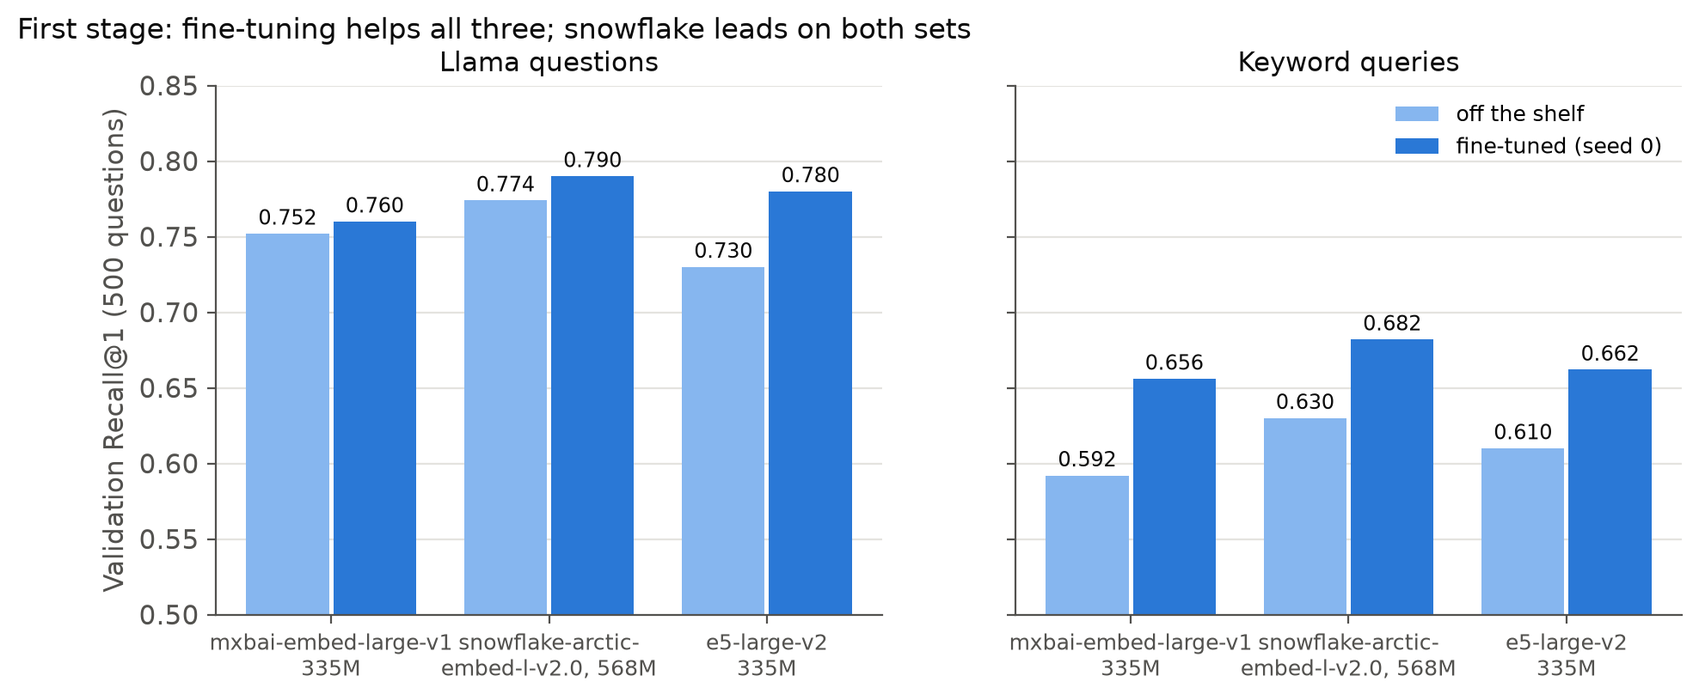
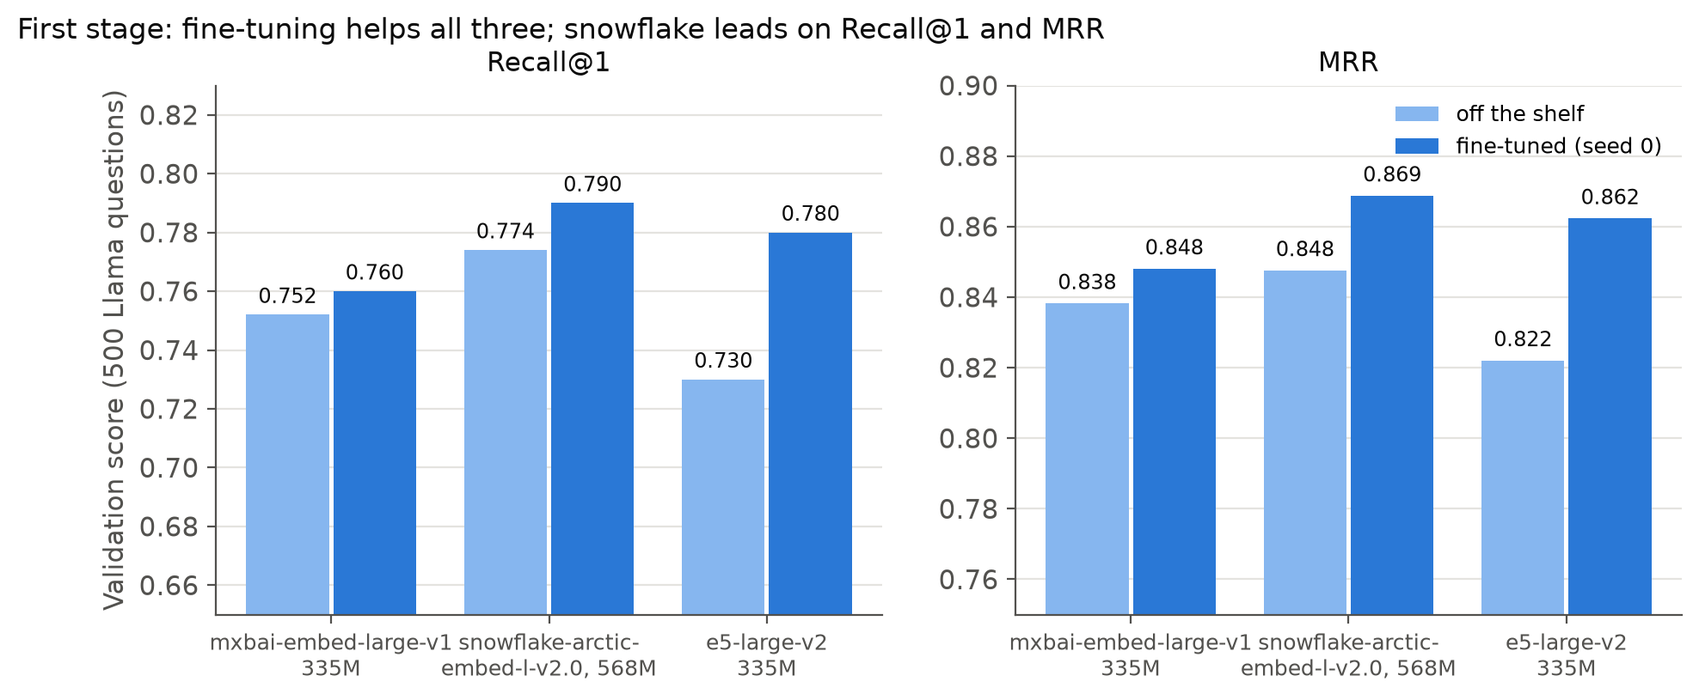
report.md: drop latency and keyword-query metrics; mention MiniLM only where tested

diff --git a/results/figures/make_figures.py b/results/figures/make_figures.py
@@ -88,81 +88,73 @@ def fig_sources():
     s = pd.read_csv(ROOT / "results/test/test_scores.csv")
     s = s.groupby(["source", "condition"])["recall@1"].mean().unstack(0)
     conds = [1, 2, 3, 4, 7]
-    srcs = [("llama", "Llama questions", BLUE), ("qwen", "Qwen questions", ORANGE), ("keyword", "Keyword queries (people)", AQUA)]
+    srcs = [("llama", "Llama questions (test writer)", BLUE), ("qwen", "Qwen questions (training writer)", ORANGE)]
     fig, ax = plt.subplots(figsize=(9, 4))
     x = np.arange(len(conds))
-    w = 0.26
+    w = 0.38
     for i, (src, label, color) in enumerate(srcs):
         vals = s.loc[conds, src].to_numpy()
-        bars = ax.bar(x + (i - 1) * w, vals, w - 0.02, color=color, label=label)
+        bars = ax.bar(x + (i - 0.5) * w, vals, w - 0.03, color=color, label=label)
         for b, v in zip(bars, vals):
-            ax.text(b.get_x() + b.get_width() / 2, v + 0.008, f"{v:.2f}", ha="center", fontsize=8.5, color=INK)
+            ax.text(b.get_x() + b.get_width() / 2, v + 0.008, f"{v:.3f}", ha="center", fontsize=8.5, color=INK)
     ax.set_xticks(x, ["BM25", "MiniLM\noff the shelf", "snowflake\noff the shelf", "snowflake\nfine-tuned", "final\n(+ reranker)"])
-    ax.set_ylim(0.3, 0.97)
+    ax.set_ylim(0.4, 0.95)
     ax.set_ylabel("Test Recall@1 (mean of seeds)")
     ax.grid(axis="x", visible=False)
-    ax.legend(frameon=False, loc="upper left", ncol=3)
-    ax.set_title("Gains hold on all three question sets, including real keyword queries", loc="left", color=INK, fontsize=12)
-    save(fig, "fig2_three_question_sets.png")
+    ax.legend(frameon=False, loc="upper left", ncol=2)
+    ax.set_title("Same ranking of conditions whichever LLM wrote the questions", loc="left", color=INK, fontsize=12)
+    save(fig, "fig2_two_question_writers.png")
 
 
 def fig_first_stage_selection():
     models = [("mxbai-embed-large-v1", "first-stage-mxbai", "mxbai-embed-large-v1\n335M"),
               ("snowflake-arctic-embed-l-v2.0", "first-stage-snowflake", "snowflake-arctic-\nembed-l-v2.0, 568M"),
               ("e5-large-v2", "first-stage-e5", "e5-large-v2\n335M")]
-    fig, axes = plt.subplots(1, 2, figsize=(11, 4), sharey=True)
-    for ax, (suffix, title) in zip(axes, [("", "Llama questions"), ("_keyword", "Keyword queries")]):
+    fig, axes = plt.subplots(1, 2, figsize=(11, 4))
+    for ax, (metric, title, lo, hi) in zip(axes, [("recall@1", "Recall@1", 0.65, 0.83), ("mrr", "MRR", 0.75, 0.9)]):
         off, ft = [], []
         for base, exp, _ in models:
             v = json.load(open(EXP / exp / "validation.json"))["validation"]
-            off.append(v[base + suffix]["recall@1"])
-            ft.append(v[f"exp_{exp}{suffix}"]["recall@1"])
+            off.append(v[base][metric])
+            ft.append(v[f"exp_{exp}"][metric])
         x = np.arange(len(models))
         for dx, vals, color, label in [(-0.2, off, "#86b6ef", "off the shelf"), (0.2, ft, BLUE, "fine-tuned (seed 0)")]:
             bars = ax.bar(x + dx, vals, 0.38, color=color, label=label)
             for b, v in zip(bars, vals):
-                ax.text(b.get_x() + b.get_width() / 2, v + 0.006, f"{v:.3f}", ha="center", fontsize=8.5, color=INK)
+                ax.text(b.get_x() + b.get_width() / 2, v + 0.004, f"{v:.3f}", ha="center", fontsize=8.5, color=INK)
         ax.set_xticks(x, [m[2] for m in models], fontsize=9)
         ax.set_title(title, color=INK, fontsize=11)
         ax.grid(axis="x", visible=False)
-        ax.set_ylim(0.5, 0.85)
-    axes[0].set_ylabel("Validation Recall@1 (500 questions)")
+        ax.set_ylim(lo, hi)
+    axes[0].set_ylabel("Validation score (500 Llama questions)")
     axes[1].legend(frameon=False, loc="upper right", fontsize=9)
-    fig.suptitle("First stage: fine-tuning helps all three; snowflake leads on both sets", x=0.02, ha="left", color=INK, fontsize=12)
+    fig.suptitle("First stage: fine-tuning helps all three; snowflake leads on Recall@1 and MRR", x=0.02, ha="left", color=INK, fontsize=12)
     save(fig, "fig3_first_stage_selection.png")
 
 
 def fig_screening():
     # From results/experiments/screening/screening.md (validation, off the shelf, Llama questions).
-    first = [("BM25", 0.522, 0.832), ("all-MiniLM-L6-v2 (22M)", 0.672, 0.952), ("Qwen3-Embedding-0.6B", 0.712, 0.946),
-             ("e5-large-v2 (335M)", 0.730, 0.966), ("bge-base-en-v1.5 (110M)", 0.734, 0.970),
-             ("bge-large-en-v1.5 (335M)", 0.742, 0.968), ("mxbai-embed-large-v1 (335M)", 0.752, 0.978),
-             ("snowflake-arctic-embed-l-v2.0 (568M)", 0.774, 0.972)]
-    rer = [("ms-marco-MiniLM-L6-v2", 0.722, 6), ("bge-reranker-base", 0.684, 22), ("gte-reranker-modernbert-base", 0.754, 30),
-           ("bge-reranker-v2-m3", 0.770, 66), ("Qwen3-Reranker-0.6B", 0.748, 162)]
-    fig, axes = plt.subplots(1, 2, figsize=(12, 4.2), gridspec_kw={"width_ratios": [1.25, 1]})
-    ax = axes[0]
-    y = np.arange(len(first))
-    chosen = {"snowflake-arctic-embed-l-v2.0 (568M)", "mxbai-embed-large-v1 (335M)", "e5-large-v2 (335M)"}
-    ax.barh(y, [f[1] for f in first], color=[BLUE if f[0] in chosen else GRAY for f in first], height=0.62)
-    for yi, f in zip(y, first):
-        ax.text(f[1] + 0.006, yi, f"{f[1]:.3f}", va="center", fontsize=9, color=INK)
-    ax.set_yticks(y, [f[0] for f in first], fontsize=9)
-    ax.set_xlim(0.45, 0.82)
-    ax.set_xlabel("Validation Recall@1, off the shelf")
-    ax.grid(axis="y", visible=False)
-    ax.set_title("First-stage screen (blue = fine-tuned next)", loc="left", color=INK, fontsize=11)
-    ax = axes[1]
-    for name, r1, ms in rer:
-        c = BLUE if name in ("gte-reranker-modernbert-base", "bge-reranker-v2-m3") else GRAY
-        ax.scatter(ms, r1, s=70, color=c, edgecolor="white", linewidth=2, zorder=3)
-        ax.annotate(name, (ms, r1), textcoords="offset points", xytext=(6, 5), fontsize=8.5, color=INK)
-    ax.set_xscale("log")
-    ax.set_xlabel("GPU ms per question at k = 10 (log scale)")
-    ax.set_ylabel("Validation Recall@1, reranker alone")
-    ax.set_xlim(4, 600)
-    ax.set_ylim(0.67, 0.79)
-    ax.set_title("Reranker screen on e5's top 10", loc="left", color=INK, fontsize=11)
+    first = [("BM25", 0.522), ("all-MiniLM-L6-v2 (22M)", 0.672), ("Qwen3-Embedding-0.6B", 0.712),
+             ("e5-large-v2 (335M)", 0.730), ("bge-base-en-v1.5 (110M)", 0.734),
+             ("bge-large-en-v1.5 (335M)", 0.742), ("mxbai-embed-large-v1 (335M)", 0.752),
+             ("snowflake-arctic-embed-l-v2.0 (568M)", 0.774)]
+    rer = [("bge-reranker-base", 0.684), ("mxbai-rerank-large-v1", 0.710), ("ms-marco-MiniLM-L6-v2", 0.722),
+           ("Qwen3-Reranker-0.6B", 0.748), ("gte-reranker-modernbert-base", 0.754), ("bge-reranker-v2-m3", 0.770)]
+    fig, axes = plt.subplots(1, 2, figsize=(14, 4.2), gridspec_kw={"width_ratios": [1.2, 1], "wspace": 0.75})
+    for ax, rows, chosen, title in [
+        (axes[0], first, {"snowflake-arctic-embed-l-v2.0 (568M)", "mxbai-embed-large-v1 (335M)", "e5-large-v2 (335M)"},
+         "First-stage screen (blue = fine-tuned next)"),
+        (axes[1], rer, {"gte-reranker-modernbert-base", "bge-reranker-v2-m3"}, "Reranker screen on e5's top 10")]:
+        y = np.arange(len(rows))
+        ax.barh(y, [r[1] for r in rows], color=[BLUE if r[0] in chosen else GRAY for r in rows], height=0.62)
+        for yi, r in zip(y, rows):
+            ax.text(r[1] + 0.004, yi, f"{r[1]:.3f}", va="center", fontsize=9, color=INK)
+        ax.set_yticks(y, [r[0] for r in rows], fontsize=9)
+        ax.set_xlabel("Validation Recall@1, off the shelf")
+        ax.grid(axis="y", visible=False)
+        ax.set_title(title, loc="left", color=INK, fontsize=11)
+    axes[0].set_xlim(0.45, 0.82)
+    axes[1].set_xlim(0.6, 0.8)
     save(fig, "fig4_screening.png")
 
 
@@ -185,32 +177,21 @@ def fig_reranker_selection():
     ax.set_ylabel("Validation Recall@1, top 10\n(reranker score alone)")
     ax.grid(axis="x", visible=False)
     ax.legend(frameon=False, loc="upper right", fontsize=9)
-    ax.set_title("Fine-tuned gte beats the larger v2-m3 at half the latency (31 vs 73 ms)", loc="left", color=INK, fontsize=12)
+    ax.set_title("Fine-tuned gte beats the 4x larger v2-m3", loc="left", color=INK, fontsize=12)
     save(fig, "fig5_reranker_selection.png")
 
 
 def fig_rerank_k():
     k = pd.read_csv(ROOT / "results/test/rerank_k.csv")
     k = k[(k.condition == 7) & (k.kind == "fused")].groupby("k")["recall@1"].mean()
-    sp = pd.read_csv(ROOT / "results/test/speed.csv")
-    sp = sp[(sp.condition == 7) & sp.k.notna()]
-    fig, axes = plt.subplots(1, 2, figsize=(10, 3.6))
-    ax = axes[0]
+    fig, ax = plt.subplots(figsize=(6.5, 3.6))
     ax.plot(k.index, k.values, color=BLUE, lw=2, marker="o", ms=6)
     ax.axhline(0.806, color=GRAY, lw=1.5, ls="--")
     ax.text(50, 0.8065, "first stage alone", ha="right", va="bottom", fontsize=9, color=INK2)
     ax.set_ylim(0.795, 0.84)
     ax.set_xlabel("k (first-stage candidates reranked)")
     ax.set_ylabel("Test Recall@1, final model")
-    ax.set_title("Accuracy is flat past k = 10", loc="left", color=INK, fontsize=11)
-    ax = axes[1]
-    for dev, color, label in [("mps", BLUE, "Apple GPU (MPS)"), ("cpu", ORANGE, "CPU, 6 threads")]:
-        d = sp[sp.device == dev].sort_values("k")
-        ax.plot(d.k, d.question_ms, color=color, lw=2, marker="o", ms=6, label=label)
-    ax.set_xlabel("k")
-    ax.set_ylabel("ms per question")
-    ax.legend(frameon=False, loc="upper left", bbox_to_anchor=(0, 0.92))
-    ax.set_title("…while latency grows linearly", loc="left", color=INK, fontsize=11)
+    ax.set_title("Reranking more than the top 10 adds almost nothing", loc="left", color=INK, fontsize=11)
     save(fig, "fig6_rerank_k.png")
 
 

diff --git a/report.md b/report.md
@@ -16,7 +16,7 @@ We compared keyword search, eight off-the-shelf embedding models, three fine-tun
 - **First stage:** a fine-tuned `snowflake-arctic-embed-l-v2.0` bi-encoder (568M parameters).
 - **Reranker:** a fine-tuned `gte-reranker-modernbert-base` cross-encoder (149M) that reorders the bi-encoder's top 10. Its score is combined with the bi-encoder's.
 
-The system reaches Recall@1 0.832 and Recall@5 0.963. The gains hold on questions in the training writer's style and on the original keyword queries typed by real people. The full system takes about 46 ms per question on a laptop GPU. The original hypothesis was for a small (22M) model to gain 10 points of Recall@5. That proved impossible to test as stated: off-the-shelf models already scored 90–95% Recall@5. So we switched to Recall@1 and larger models before running any test, and we report the original hypothesis's outcome below.
+The system reaches Recall@1 0.832, Recall@5 0.963 and MRR 0.890, and the ranking of conditions is the same whichever LLM wrote the questions. We first fine-tuned a small model (bge-small, 33M), aiming for a 10-point Recall@5 gain. Off-the-shelf models already scored 90–95% Recall@5, so a gain that large was impossible. We switched to Recall@1 and larger models before running any test, and report the original hypothesis's outcome below.
 
 ---
 
@@ -24,12 +24,12 @@ The system reaches Recall@1 0.832 and Recall@5 0.963. The gains hold on question
 
 **Question.** When people ask about their browsing history in their own words, which retriever, and which way of fine-tuning it, returns the page they mean?
 
-**Original hypothesis (proposal, October 2026).** Fine-tuning a small embedding model (all-MiniLM-L6-v2, 22M parameters) on LLM-rewritten click data would raise Recall@5 by at least 10 points over BM25 and over the same model off the shelf, and the gain would replicate on a second model (bge-small, 33M).
+**Original hypothesis.** Fine-tuning a small embedding model (bge-small, 33M parameters) on LLM-rewritten click data would raise Recall@5 by at least 10 points over BM25 and over the same model off the shelf, and the gain would replicate on a second model.
 
 **Revised hypothesis, fixed on validation before any test run.**
 - Off-the-shelf bge-small already reached 0.896 validation Recall@5, so a 10-point Recall@5 gain was impossible. Recall@1 became the primary metric, with MRR breaking ties.
 - The small models' recipe experiments (Section 5.2) gained at most 5.4 points of Recall@1 and plateaued near 0.71. Their misses were capacity errors, which motivated the move to larger models and a reranker.
-- The revised expectation: a fine-tuned large bi-encoder plus a fine-tuned cross-encoder reranker beats BM25, all-MiniLM-L6-v2 and the same bi-encoder off the shelf on Recall@1, without losing accuracy on real keyword queries.
+- The revised expectation: a fine-tuned large bi-encoder plus a fine-tuned cross-encoder reranker beats BM25, all-MiniLM-L6-v2 and the same bi-encoder off the shelf on Recall@1 and MRR.
 
 **Outcome against each hypothesis.**
 
@@ -39,19 +39,18 @@ The system reaches Recall@1 0.832 and Recall@5 0.963. The gains hold on question
 | Recall@5 rises ≥10 points over the same model off the shelf | +1.4 (0.946 → 0.960); the baseline leaves only 5.4 points of headroom | Not met (ceiling) |
 | Recall@1 improves over the same model off the shelf | +2.0 [95% CI +0.7, +3.4] (first stage), +4.6 [+3.3, +6.0] (final) | Met |
 | Gain replicates on a second model | Fine-tuning raised validation Recall@1 on all four models tried. On test, fine-tuned mxbai (0.787) beats BM25 and MiniLM, but its off-the-shelf version was not scored on test | Partly met |
-| No loss on real keyword queries | Final 0.730 vs first stage 0.706 vs off the shelf 0.682 | Met |
-| A small (22M) model is enough | Fine-tuned small models plateau near 0.71 validation Recall@1 | Not supported |
+| A small (33M) model is enough | Fine-tuned bge-small plateaued near 0.71 validation Recall@1 | Not supported |
 
 ---
 
 ## 2. Significance and related work
 
-**The problem.** A retrieval-augmented assistant over browsing history (Lewis et al., 2020) can only answer from what its retriever finds. Chrome's history search matches literal keywords against titles and URLs. That fails when a question and the page's title share few words. An LLM reading the whole history would see about 100k tokens per question, which is slow and expensive on a laptop.
+**The problem.** A retrieval-augmented assistant over browsing history (Lewis et al., 2020) can only answer from what its retriever finds. Chrome's history search matches literal keywords against titles and URLs. That fails when a question and the page's title share few words. An LLM reading the whole history would see about 100k tokens per question.
 
 **Why it matters.**
 - Personal retrieval has no labelled data, and collecting it raises privacy problems. Search clicks rewritten by an LLM are a privacy-free substitute.
-- We test whether models trained this way transfer to questions written by another LLM, and to queries real people typed.
-- A bi-encoder embeds each page once and searches thousands of entries in milliseconds on a laptop.
+- We test whether models trained this way transfer to questions written by another LLM.
+- A bi-encoder embeds each page once, so it scales to long histories.
 
 **Related work.**
 - **Click data:** ORCAS (Craswell et al., 2020), with titles from MS MARCO (Nguyen et al., 2016).
@@ -69,12 +68,12 @@ The system reaches Recall@1 0.832 and Recall@5 0.963. The gains hold on question
 | | |
 |---|---|
 | **Final models** | First stage: `Snowflake/snowflake-arctic-embed-l-v2.0` (568M), fine-tuned. Reranker: `Alibaba-NLP/gte-reranker-modernbert-base` (149M), fine-tuned, reordering the top 10 |
-| **Data** | 300,000 ORCAS query–click pairs with MS MARCO titles. Splits: 297,500 training, 500 validation, 2,000 test (by query). Training used 50,000 question rows plus their keyword queries |
+| **Data** | 300,000 ORCAS query–click pairs with MS MARCO titles. Splits: 297,500 training, 500 validation, 2,000 test (by query). Training used 50,000 question rows, plus the original search queries as extra rows |
 | **Question writers** | Training: Qwen3-30B-A3B (4-bit, MLX, greedy). Validation and test: Llama-3.1-8B-Instruct (4-bit, MLX, greedy), with the same neutral prompt |
 | **Test design** | Each question ranks its own 200 entries (`title \| url`): the answer, 100 BM25 look-alikes of the answer's entry, and 99 random pages |
 | **Conditions** | 7 conditions (Table 1), plus fine-tuned mxbai as a replication (A). Selection screened 8 first-stage models and 6 rerankers |
-| **Metrics** | Recall@1 (primary), Recall@5, @10, @20, @50 and @100, MRR, and ms per question. 3 seeds for each fine-tuned condition. Per-condition 95% bootstrap CIs and paired bootstrap tests (10,000 resamples) |
-| **Check sets** | The same 2,000 test pages asked two more ways: Qwen-written questions (the training style) and the original ORCAS keyword queries (typed by people) |
+| **Metrics** | Recall@1 (primary), Recall@5, @10, @20, @50 and @100, and MRR. 3 seeds for each fine-tuned condition. Per-condition 95% bootstrap CIs and paired bootstrap tests (10,000 resamples) |
+| **Check set** | The same 2,000 test pages asked again by Qwen (the training writer), to test whether models learned the writer's style |
 | **Compute** | A 64 GB Apple Silicon Mac GPU (MPS), not Colab (Table 1 lists approximate GPU-hours). Rewriting 300k questions took about 10 GPU-hours |
 
 ---
@@ -106,7 +105,7 @@ flowchart LR
 - Qwen3-30B-A3B rewrote all 300k keyword queries, with greedy decoding and few-shot examples rotated by a seeded hash.
 - The first prompt banned copying three or more title words and asked for loose descriptions. That handicapped BM25 by design, so the final round removed both rules and used one neutral prompt for both writers.
 - The lowest 10% of rewrites by average token log-probability were dropped (`drop10`, chosen on validation).
-- The original keyword queries were mixed back in as extra training rows.
+- The original search queries were mixed back in as extra training rows.
 
 **First stage.**
 - Loss: `MultipleNegativesRankingLoss` (in-batch negatives) plus one hard negative per question.
@@ -120,8 +119,8 @@ flowchart LR
 
 **Fusion.**
 - Within the top 10, the final score is `w · z(bi-encoder) + z(reranker)`, where z standardises each model's scores within the 10.
-- `w` comes from a 14-value grid, chosen on 1,000 held-out training rows (with their keyword queries), never on validation. The selected values were 1.25, 0.6 and 1.0 for the three seeds.
-- Fusion is what kept the reranker from losing on keyword queries (Section 5.4).
+- `w` comes from a 14-value grid, chosen on 1,000 held-out training rows, never on validation. The selected values were 1.25, 0.6 and 1.0 for the three seeds.
+- Fusion raised Recall@1 over the reranker alone (Section 5.4).
 
 ---
 
@@ -148,9 +147,9 @@ flowchart LR
 
 Seed spread (standard deviation of Recall@1 over 3 seeds) is 0.003 for condition 4 and 0.004 for condition 7, far smaller than the gaps between conditions. Condition 7 beats condition 3 by +4.6 points [+3.3, +6.0], and condition 4 beats condition 3 by +2.0 [+0.7, +3.4].
 
-![Figure 2](results/figures/fig2_three_question_sets.png)
+![Figure 2](results/figures/fig2_two_question_writers.png)
 
-**Figure 2.** Test Recall@1 on the same 2,000 pages, asked three ways. The ranking of conditions is identical on all three, and every step up also raises accuracy on keyword queries typed by people. Fine-tuned snowflake scores the same on Llama (0.806) and Qwen (0.801) questions, so it learned the task, not Qwen's style.
+**Figure 2.** Test Recall@1 on the same 2,000 pages, asked by the test writer (Llama) and by the training writer (Qwen). The ranking of conditions is identical for both. Fine-tuned snowflake scores the same on Llama (0.806) and Qwen (0.801) questions, so it learned the task, not Qwen's style.
 
 ![Figure 7](results/figures/fig7_first_stage_recall_at_k.png)
 
@@ -189,41 +188,38 @@ For the final round we regenerated all questions with the neutral prompt and scr
 
 **Figure 5.** Off-the-shelf screening on 500 validation questions.
 - **First stage (left):** the three most accurate models were fine-tuned (blue). Qwen3-Embedding-0.6B was dropped: it scored lower and, being LLM-based, needs more memory.
-- **Rerankers (right):** Recall@1 against GPU latency on e5's top 10. gte-reranker-modernbert-base and bge-reranker-v2-m3 were fine-tuned. The others were dropped:
-  - ms-marco-MiniLM and bge-reranker-base scored lower;
-  - Qwen3-Reranker scored lower and is 5× slower;
-  - mxbai-rerank-large-v1, screened later on the CPU, scored 0.710.
+- **Rerankers (right):** Recall@1 on e5's top 10. The two most accurate, bge-reranker-v2-m3 and gte-reranker-modernbert-base, were fine-tuned; the other four scored lower and were dropped.
 
 ![Figure 3](results/figures/fig3_first_stage_selection.png)
 
 **Figure 6.** First-stage selection (validation, seed 0).
-- Fine-tuning helped all three candidates, by +0.8 (mxbai), +1.6 (snowflake) and +5.0 (e5) points on Llama questions, and by +5 to +6 points on keyword queries.
+- Fine-tuning helped all three candidates, by +0.8 (mxbai), +1.6 (snowflake) and +5.0 (e5) points of Recall@1, and by +1.0 to +4.0 points of MRR.
 - Recall@10 and Recall@50 were saturated: all three were within 1 point of each other.
-- **Snowflake won** on Recall@1, MRR and keyword queries. A first pick of mxbai, which our rule made on a 1% speed difference, was corrected to snowflake. The test set confirms the correction: fine-tuned mxbai scores 0.787 against snowflake's 0.806 (Table 1, A).
+- **Snowflake won** on Recall@1 and MRR. An earlier pick of mxbai, made by a tie-break rule while Recall@10 was saturated, was corrected to snowflake. The test set confirms the correction: fine-tuned mxbai scores 0.787 against snowflake's 0.806 (Table 1, A).
 - Training snowflake on all 233k usable rows instead of 50k gained only +0.4 points (0.794 vs 0.790), below our 0.5-point bar, so the 3 seeds used 50k rows.
 
 ![Figure 5](results/figures/fig5_reranker_selection.png)
 
 **Figure 7.** Reranker selection on fine-tuned snowflake's top 10 (validation, reranker score alone).
 - Off the shelf, both rerankers are worse than the first stage alone (0.752 and 0.768 against 0.790).
-- After fine-tuning, gte (0.804) beats the first stage and the 4× larger v2-m3 (0.780), at 31 ms against 73 ms per question.
+- After fine-tuning, gte (0.804) beats the first stage and the 4× larger v2-m3 (0.780).
 - gte's three seeds scored 0.804, 0.802 and 0.810.
 - The rerankers were trained on mxbai's mistakes, before the first-stage correction, and were not retrained on snowflake's.
 
 ### 5.4 Fusion and the choice of k
 
-Alone, fine-tuned gte lost on keyword queries (validation 0.658 against the first stage's 0.682), which broke our keyword rule. Adding the bi-encoder's standardised score, with the weight fitted on held-out training rows, fixed it: fused keyword Recall@1 was 0.694–0.716 across the 3 seeds. Fusion also raised Llama Recall@1 to 0.814–0.818.
+Adding the bi-encoder's standardised score to the reranker's, with the weight fitted on held-out training rows, raised validation Recall@1 from 0.802–0.810 (reranker alone) to 0.814–0.818 across the 3 seeds.
 
 ![Figure 6](results/figures/fig6_rerank_k.png)
 
-**Figure 8.** Final model on test as k (the number of first-stage candidates reranked) varies. Left: Recall@1 is flat past k = 10; k = 50 adds at most 0.2 points. Right: time per question grows linearly, so k = 50 costs 4× more. At k = 10 the system takes 46 ms on the GPU and 150 ms on the CPU.
+**Figure 8.** Final model on test as k (the number of first-stage candidates reranked) varies. Recall@1 is flat past k = 10: reranking 50 candidates adds at most 0.2 points, so the final system reranks the top 10.
 
 ---
 
 ## 6. Key observations
 
-1. **Fine-tuning on LLM-rewritten clicks transfers to another writer and to real queries.** Every fine-tuned model improved on Llama-written questions it never saw the style of, and on the original keyword queries people typed (final 0.730 against 0.682 off the shelf). The fine-tuned first stage scores the same on Llama and Qwen questions (0.806 against 0.801), so it learned the task rather than the training writer's style.
-2. **Model capacity mattered more than fine-tuning.** Moving from MiniLM (22M) to snowflake (568M) off the shelf gained +9.2 points of Recall@1. Fine-tuning snowflake added +2.0, and the fine-tuned reranker +2.6 more. Fine-tuning gains shrink as the base model gets stronger: +5.4 on bge-small, +5.0 on e5, +1.6 on snowflake, +0.8 on mxbai (validation).
+1. **Fine-tuning on LLM-rewritten clicks transfers to another writer.** Every fine-tuned model improved on Llama-written questions, a style it never trained on. The fine-tuned first stage scores the same on Llama and Qwen questions (0.806 against 0.801), so it learned the task rather than the training writer's style.
+2. **Model capacity mattered more than fine-tuning.** Moving from all-MiniLM-L6-v2 (22M) to snowflake (568M), both off the shelf, gained +9.2 points of Recall@1. Fine-tuning snowflake added +2.0, and the fine-tuned reranker +2.6 more. Fine-tuning gains shrink as the base model gets stronger: +5.4 on bge-small, +5.0 on e5, +1.6 on snowflake, +0.8 on mxbai (validation).
 3. **Surprises:**
    - Combining BM25 with the dense ranking (reciprocal rank fusion) *hurt*, by −12.4 points. BM25 is so much weaker that giving its ranks equal weight drags the dense ranking down.
    - Off-the-shelf rerankers were *worse* than the fine-tuned first stage on their own. Only fine-tuning, plus fusion with the first-stage score, made the reranker pay off.
@@ -288,16 +284,16 @@ We sampled 50 of the 98 validation misses of the fine-tuned reranker (seed 0, sn
 
 | Proposal | What we did | Why |
 |---|---|---|
-| all-MiniLM-L6-v2 (22M), replicated on bge-small (33M) | Small models tried first; final first stage snowflake (568M), replicated with mxbai (335M); reranker added | Small models plateaued near 0.71 Recall@1 and their misses needed more capacity |
+| A small embedding model, replicated on a second one | bge-small (33M) tried first; final first stage snowflake (568M), replicated with mxbai (335M); reranker added | bge-small plateaued near 0.71 Recall@1 and its misses needed more capacity |
 | Primary metric Recall@5, target +10 points | Recall@1 primary, with MRR breaking ties; decided on validation before testing | Off-the-shelf Recall@5 was already 0.90–0.95 |
 | Qwen2.5-7B rewrites 50k queries, keep the top 25k, drop copies of 4+ title words | Qwen3-30B rewrites all 300k with a neutral prompt; drop the lowest 10% by log-probability; 50k used for training | The copy rule handicapped BM25; more rows were cheap |
 | Hard negative: a BM25 match of the question | A BM25 look-alike of the answer page | +1.8 points on validation (Figure 4) |
 | Five conditions | Seven conditions plus a replication, with a BM25 hybrid and rerankers | The error analysis called for a reranker |
-| 3 seeds for MiniLM, 1 for bge-small; paired bootstrap | 3 seeds for each final model; paired bootstrap; per-condition CIs | – |
+| Seeds and paired bootstrap | 3 seeds for each final model; paired bootstrap; per-condition CIs | – |
 | 100 hand-labelled errors | 50 AI-labelled errors on the final reranker, plus 25 earlier hand-checked ones | Time |
 | nDCG@10 | Not reported; MRR and Recall@k cover ranking quality | – |
 | About 5.5 GPU-hours on a Colab T4 | About 20–25 GPU-hours on a local Mac GPU | Larger models and the full 300k rewrite |
-| Unchanged | ORCAS + MS MARCO, a separate Llama test writer, 2,000 test and 500 dev questions, 200-entry histories with near-duplicates, BM25 baseline, CPU time per question | – |
+| Unchanged | ORCAS + MS MARCO, a separate Llama test writer, 2,000 test and 500 dev questions, 200-entry histories with near-duplicates, BM25 baseline | – |
 
 ---
 
